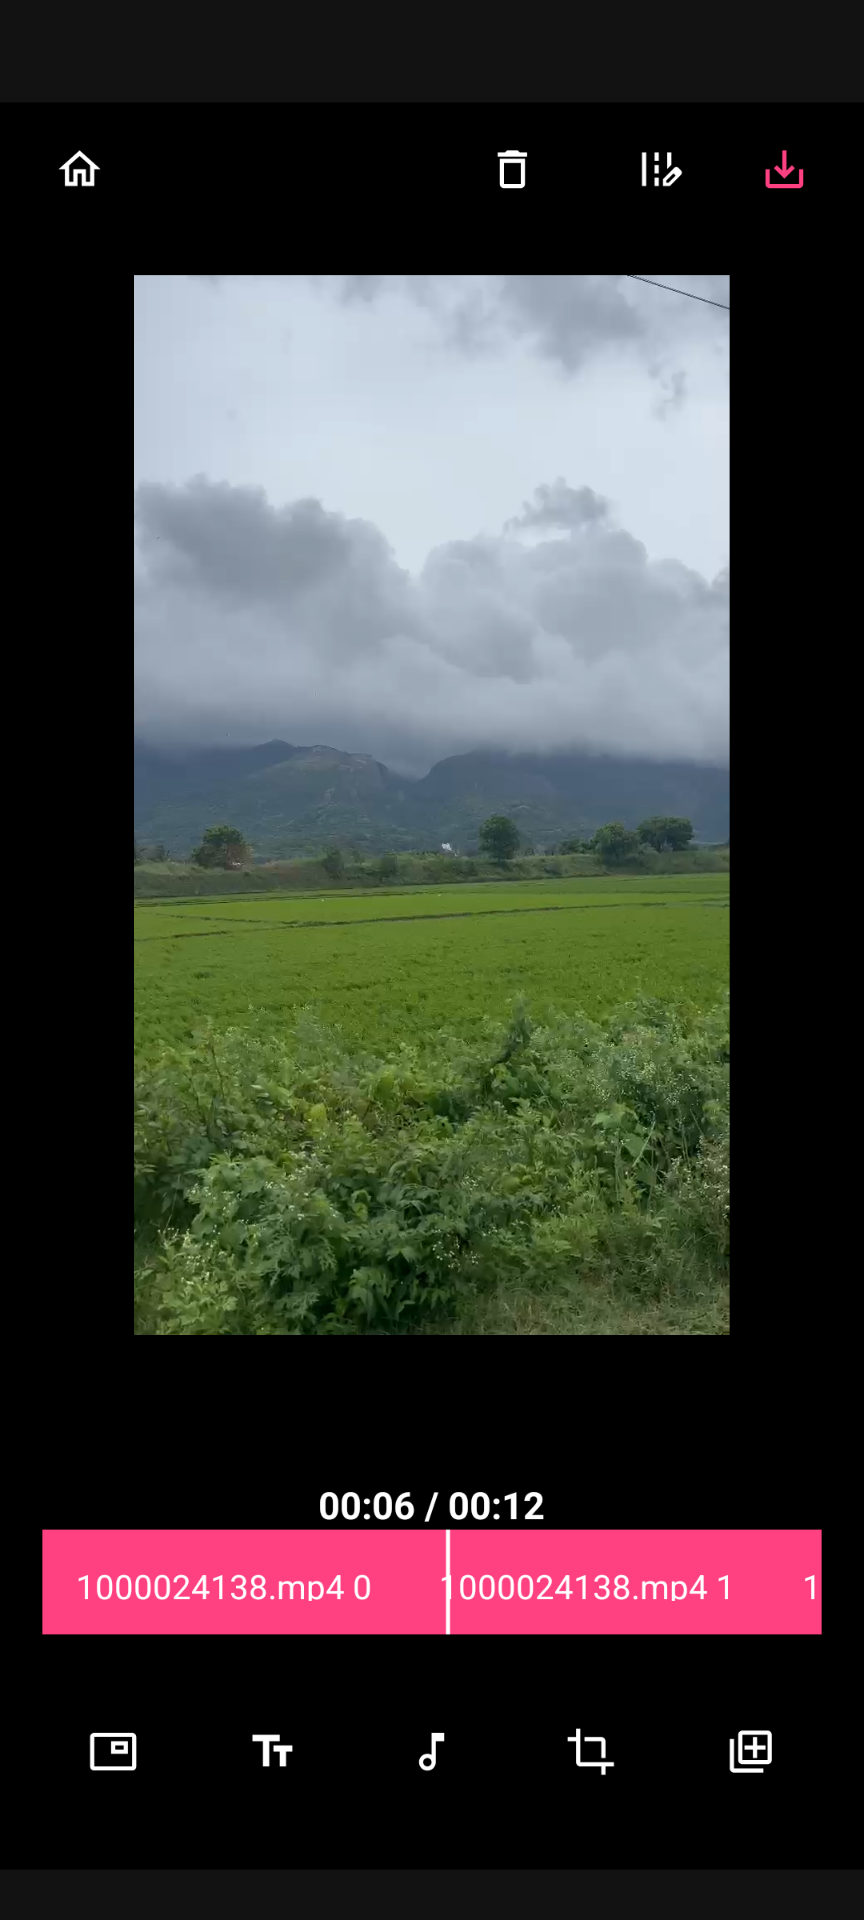
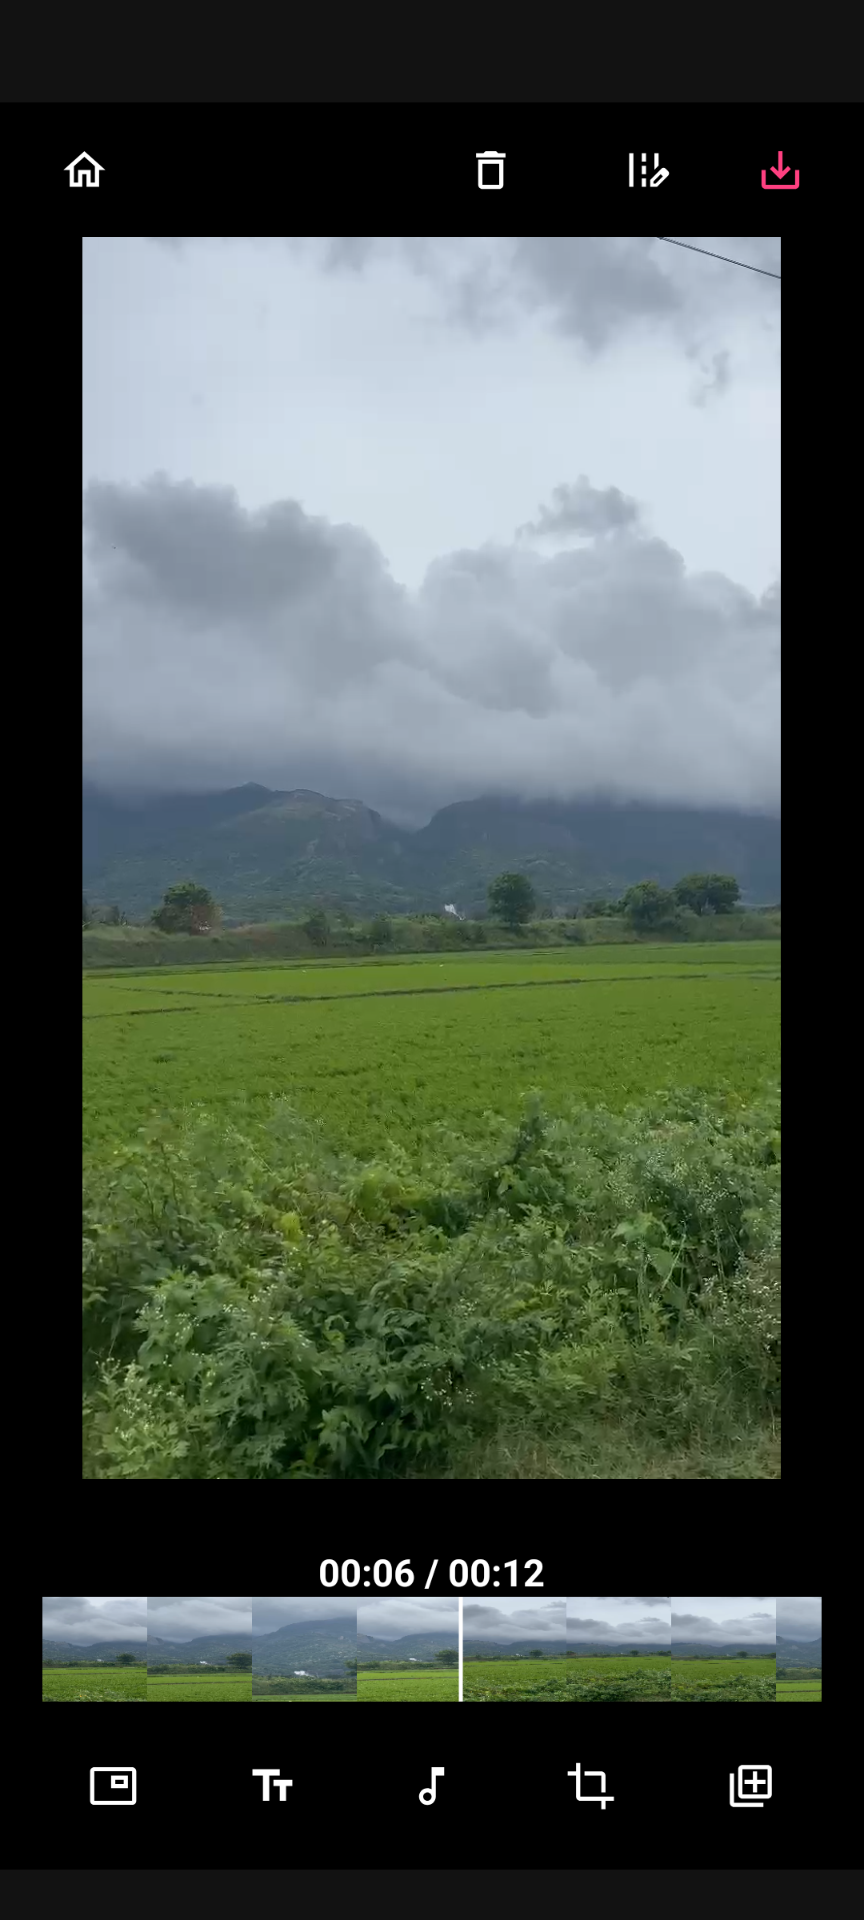
Loading Screen Update
- Display extracted frames in a timeline using a RecyclerView.
- Implemented a loading screen while fetching video.
- Added error handling to log and display messages for any issues encountered during metadata retrieval.
- Improved code structure for handling frame extraction logic and associated loading indicators.

diff --git a/app/src/main/java/com/tharunbirla/librecuts/VideoEditingActivity.kt b/app/src/main/java/com/tharunbirla/librecuts/VideoEditingActivity.kt
@@ -4,13 +4,19 @@ import android.annotation.SuppressLint
 import android.content.Context
 import com.google.android.material.dialog.MaterialAlertDialogBuilder
 import android.content.DialogInterface
+import android.graphics.Bitmap
+import android.media.MediaMetadataRetriever
 import android.net.Uri
 import android.os.Build
 import android.os.Bundle
 import android.os.Environment
+import android.os.Handler
+import android.os.Looper
 import android.provider.MediaStore
 import android.util.Log
+import android.view.View
 import android.widget.ImageButton
+import android.widget.ProgressBar
 import android.widget.TextView
 import android.widget.Toast
 import androidx.appcompat.app.AppCompatActivity
@@ -41,10 +47,12 @@ class VideoEditingActivity : AppCompatActivity() {
     private var videoUri: Uri? = null
     private var videoFileName: String = ""
     private lateinit var tempInputFile: File
+    private lateinit var loadingScreen: View
 
     override fun onCreate(savedInstanceState: Bundle?) {
         super.onCreate(savedInstanceState)
         setContentView(R.layout.activity_video_editing)
+        loadingScreen = findViewById(R.id.loadingScreen)
 
         // Initialize UI components and setup the player
         initializeViews()
@@ -187,9 +195,15 @@ class VideoEditingActivity : AppCompatActivity() {
             playerView.player = this // Bind player to the player view
             setMediaItem(MediaItem.fromUri(videoUri!!)) // Set the new media item
             prepare() // Prepare the player
-            playWhenReady = true // Start playback automatically
+            playWhenReady = false // Start playback automatically
+            seekTo(0) // Seek to the start of the video
         }
+
+        // Update the custom seeker to reflect the new video's duration
+        customVideoSeeker.setVideoDuration(player.duration)
+        updateDurationDisplay(0, player.duration.toInt()) // Reset duration display
     }
+
 
     private fun saveAction() {
         // Placeholder for future implementation of save functionality
@@ -203,6 +217,10 @@ class VideoEditingActivity : AppCompatActivity() {
 
             val mediaItem = MediaItem.fromUri(videoUri!!)
             player.setMediaItem(mediaItem) // Set media item for the player
+
+            // Show loading screen while preparing the video
+            loadingScreen.visibility = View.VISIBLE
+
             player.prepare() // Prepare the player for playback
 
             // Get the actual file path from the URI
@@ -217,10 +235,18 @@ class VideoEditingActivity : AppCompatActivity() {
                     try {
                         val media = getVideoMetadata(this@VideoEditingActivity, videoUri!!)
                         Log.d("MetadataSuccess", "Media: $media")
-                        // Use the media data as needed (e.g., display file name, size)
+
+                        // Call to extract frames for display after loading
+                        extractVideoFrames() // Extract frames after metadata is fetched
+
                     } catch (e: Exception) {
                         Log.e("MetadataError", "Error fetching video metadata: ${e.message}")
                         Toast.makeText(this@VideoEditingActivity, "Error fetching video metadata: ${e.message}", Toast.LENGTH_SHORT).show()
+                    } finally {
+//                        // Hide loading screen after 5 seconds
+//                        Handler(Looper.getMainLooper()).postDelayed({
+//                            loadingScreen.visibility = View.GONE
+//                        }, 500) // 5000 milliseconds = 5 seconds
                     }
                 }
             } else {
@@ -234,7 +260,6 @@ class VideoEditingActivity : AppCompatActivity() {
                 override fun onPlaybackStateChanged(state: Int) {
                     if (state == Player.STATE_READY) {
                         customVideoSeeker.setVideoDuration(player.duration) // Set duration on seeker
-                        extractVideoFrames() // Extract frames for display
                     }
                 }
 
@@ -250,6 +275,7 @@ class VideoEditingActivity : AppCompatActivity() {
             Toast.makeText(this, "Error loading video", Toast.LENGTH_SHORT).show()
         }
     }
+
 
     private fun getFilePathFromUri(uri: Uri): String? {
         var filePath: String? = null
@@ -296,25 +322,45 @@ class VideoEditingActivity : AppCompatActivity() {
 
     private fun setupFrameRecyclerView() {
         frameRecyclerView.layoutManager = LinearLayoutManager(this, RecyclerView.HORIZONTAL, false)
-        frameRecyclerView.adapter = FrameAdapter(listOf(videoFileName)) // Initialize frame adapter with video name
+        frameRecyclerView.adapter = FrameAdapter(emptyList()) // Initialize frame adapter with video name
     }
 
     private fun extractVideoFrames() {
-        lifecycleScope.launch(Dispatchers.Main) {
-            val duration = player.duration
-            val frameInterval = duration / 10 // Calculate interval for frame extraction
+        // This function no longer needs to show/hide loading screen
+        lifecycleScope.launch(Dispatchers.IO) {
+            val retriever = MediaMetadataRetriever()
+            retriever.setDataSource(tempInputFile.absolutePath)
 
-            val frameFileNames = mutableListOf<String>()
+            // Switch to the main thread to access player properties
+            val duration = withContext(Dispatchers.Main) { player.duration }
+            val frameInterval = duration / 10 // Extract fewer frames
 
-            for (i in 0 until 10) {
-                val frameTime = i * frameInterval / 1000
-                frameFileNames.add("$videoFileName $frameTime") // Add frame names to list
+            val frameBitmaps = mutableListOf<Bitmap>()
+            val frameCount = 10 // Adjust to change how many frames you extract
+
+            for (i in 0 until frameCount) {
+                val frameTime = (i * frameInterval) // Time in microseconds
+                val bitmap = retriever.getFrameAtTime(frameTime * 1000, MediaMetadataRetriever.OPTION_CLOSEST_SYNC)
+                bitmap?.let {
+                    val processedBitmap = Bitmap.createScaledBitmap(it, 200, 150, false) // Example resizing
+                    frameBitmaps.add(processedBitmap)
+                }
             }
 
-            // Set the adapter with distinct frame file names
-            frameRecyclerView.adapter = FrameAdapter(frameFileNames.distinct())
+            retriever.release()
+
+            // Switch back to the main thread to update the RecyclerView
+            withContext(Dispatchers.Main) {
+                frameRecyclerView.adapter = FrameAdapter(frameBitmaps)
+                // Hide loading screen after 5 seconds
+                loadingScreen.visibility = View.GONE
+            }
         }
     }
+
+
+
+
 
     @SuppressLint("SetTextI18n")
     private fun updateDurationDisplay(current: Int, total: Int) {

diff --git a/app/src/main/java/com/tharunbirla/librecuts/FrameAdapter.kt b/app/src/main/java/com/tharunbirla/librecuts/FrameAdapter.kt
@@ -1,34 +1,28 @@
 package com.tharunbirla.librecuts
 
+import android.graphics.Bitmap
 import android.util.Log
 import android.view.LayoutInflater
 import android.view.View
 import android.view.ViewGroup
+import android.widget.ImageView
 import android.widget.TextView
 import androidx.recyclerview.widget.RecyclerView
 
-class FrameAdapter(private val frameNames: List<String>) : RecyclerView.Adapter<FrameAdapter.FrameViewHolder>() {
+class FrameAdapter(private val frameBitmaps: List<Bitmap>) : RecyclerView.Adapter<FrameAdapter.FrameViewHolder>() {
 
     class FrameViewHolder(itemView: View) : RecyclerView.ViewHolder(itemView) {
-        val textView: TextView = itemView.findViewById(R.id.fileNameTextView)
+        val imageView: ImageView = itemView.findViewById(R.id.frameImageView) // Make sure you have an ImageView in your layout
     }
 
     override fun onCreateViewHolder(parent: ViewGroup, viewType: Int): FrameViewHolder {
-        val view = LayoutInflater.from(parent.context).inflate(R.layout.item_file_name, parent, false)
-        Log.d("FrameAdapter", "ViewHolder created for item type: $viewType")
+        val view = LayoutInflater.from(parent.context).inflate(R.layout.item_frame, parent, false) // Change layout to your frame item layout
         return FrameViewHolder(view)
     }
 
     override fun onBindViewHolder(holder: FrameViewHolder, position: Int) {
-        holder.textView.text = frameNames[position]
-        Log.d("FrameAdapter", "Binding data to ViewHolder at position: $position with name: ${frameNames[position]}")
-
-        holder.textView.setBackgroundColor(holder.itemView.context.getColor(R.color.colorOnPrimary))
+        holder.imageView.setImageBitmap(frameBitmaps[position])
     }
 
-    override fun getItemCount(): Int {
-        val count = frameNames.size
-        Log.d("FrameAdapter", "Total items in adapter: $count")
-        return count
-    }
+    override fun getItemCount(): Int = frameBitmaps.size
 }
